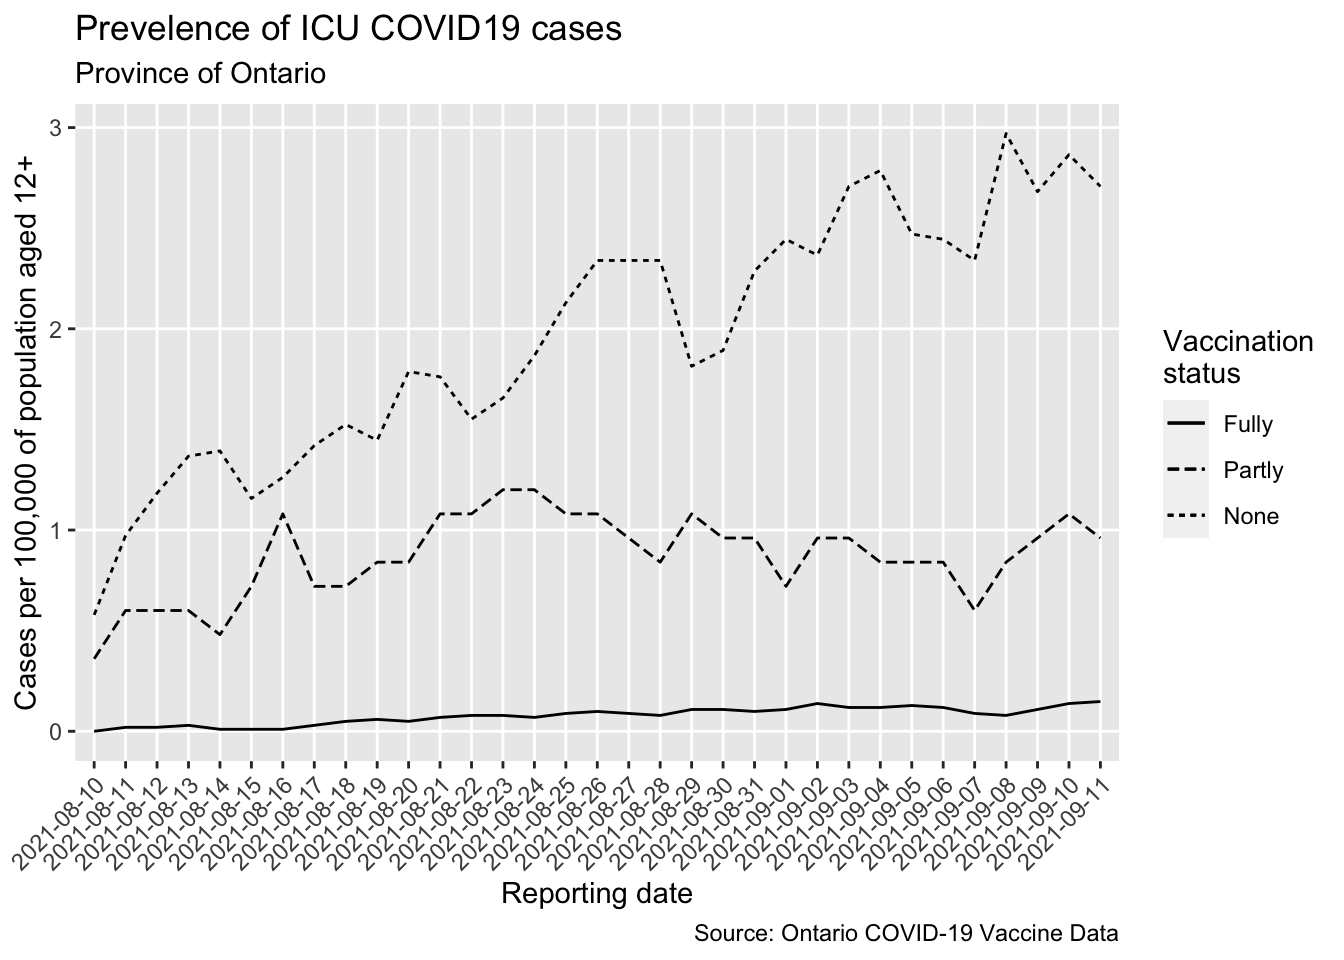
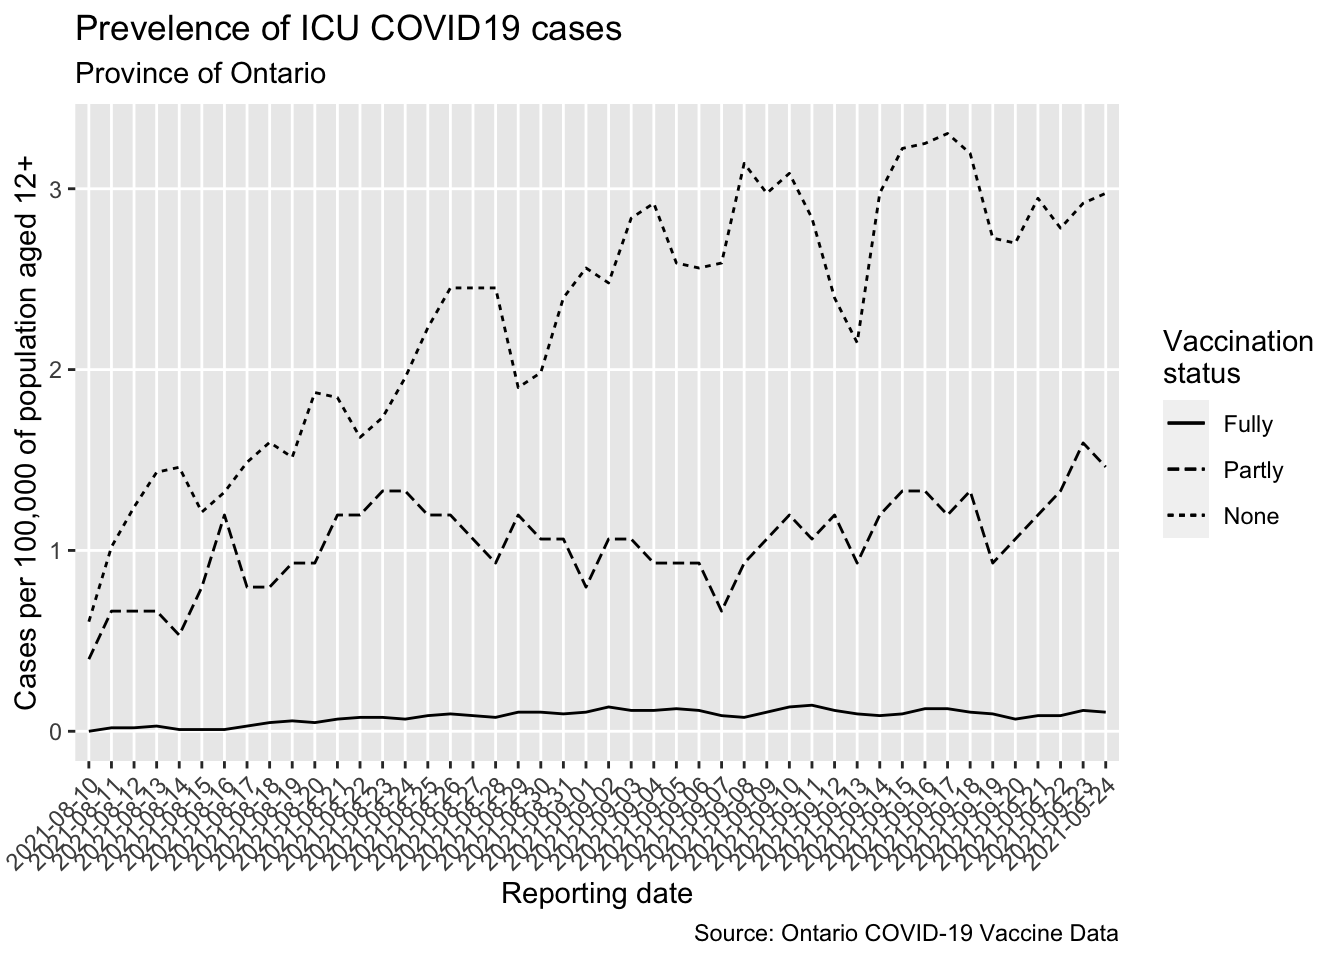
2021-09-24 update

Changed region(s): [[0.0, 0.0938, 0.8438, 0.9062]]

diff --git a/docs/index.html b/docs/index.html
@@ -10,7 +10,7 @@
 
 
 
-<meta name="date" content="2021-09-11" />
+<meta name="date" content="2021-09-24" />
 
 <title>Ontario COVID-19 vaccination progress</title>
 
@@ -190,7 +190,7 @@ summary {
 
 
 <h1 class="title toc-ignore">Ontario COVID-19 vaccination progress</h1>
-<h4 class="date">2021-09-11</h4>
+<h4 class="date">2021-09-24</h4>
 
 </div>
 
@@ -210,10 +210,10 @@ summary {
 </thead>
 <tbody>
 <tr class="odd">
-<td align="center">2021-09-11</td>
-<td align="center">10152637</td>
-<td align="center">833071</td>
-<td align="center">10985708</td>
+<td align="center">2021-09-24</td>
+<td align="center">10406874</td>
+<td align="center">752586</td>
+<td align="center">11159460</td>
 </tr>
 </tbody>
 </table>
@@ -244,9 +244,9 @@ summary {
 </thead>
 <tbody>
 <tr class="odd">
-<td align="center">2021-09-11</td>
-<td align="center">40220</td>
-<td align="center">21138345</td>
+<td align="center">2021-09-24</td>
+<td align="center">46550</td>
+<td align="center">21566334</td>
 </tr>
 </tbody>
 </table>

diff --git a/docs/ontario-covid-vaccinations.html b/docs/ontario-covid-vaccinations.html
@@ -207,10 +207,10 @@ summary {
 </thead>
 <tbody>
 <tr class="odd">
-<td align="center">2021-09-11</td>
-<td align="center">10152637</td>
-<td align="center">833071</td>
-<td align="center">10985708</td>
+<td align="center">2021-09-24</td>
+<td align="center">10406874</td>
+<td align="center">752586</td>
+<td align="center">11159460</td>
 </tr>
 </tbody>
 </table>
@@ -241,9 +241,9 @@ summary {
 </thead>
 <tbody>
 <tr class="odd">
-<td align="center">2021-09-11</td>
-<td align="center">40220</td>
-<td align="center">21138345</td>
+<td align="center">2021-09-24</td>
+<td align="center">46550</td>
+<td align="center">21566334</td>
 </tr>
 </tbody>
 </table>
